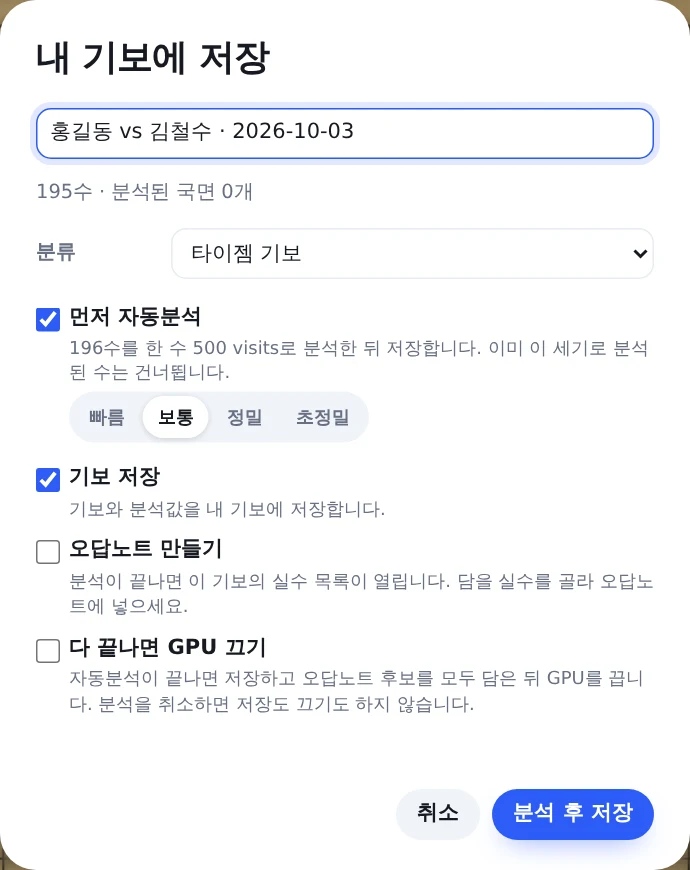
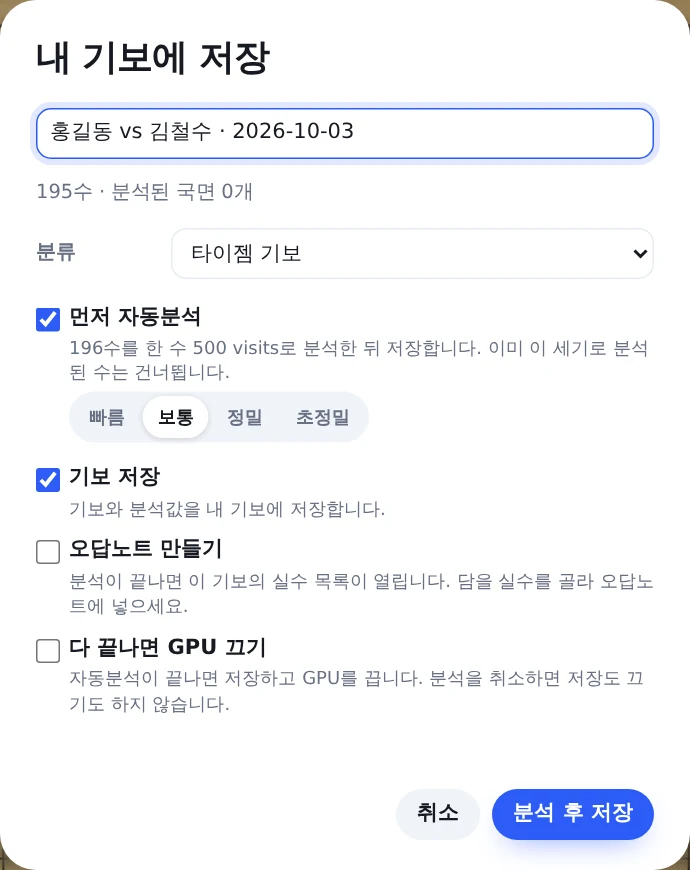
저장 창: GPU 끄기 때 오답노트는 체크했을 때만 모두 담기, 가이드
Claude-Session: https://claude.ai/code/session_01Y47eBxEyYJLCGG7gzNsDrD

Changed region(s): [[0.3652, 0.7448, 0.9435, 0.8379], [0.0913, 0.7759, 0.3348, 0.8379]]

diff --git a/analysis.html b/analysis.html
@@ -1799,19 +1799,21 @@ function saveDoChanged() {
     : todo ? `${todo}수를 한 수 ${levelVisits()} visits로 분석한 뒤 저장합니다. 이미 이 세기로 분석된 수는 건너뜁니다.`
     : "이 세기로 이미 모두 분석돼 있어 바로 저장합니다.";
   const auto = autoFirst(), wait = auto || (stop && analysisRunning());
-  // 오답노트: possible once something is analysed, or will be; turning the GPU off always takes every candidate along
-  const notesOk = saveNotesBase || auto, box = $("saveDoNotes"), forced = notesOk && stop;
-  box.disabled = !notesOk || forced; box.checked = forced || (notesOk && savePick.notes);
+  // 오답노트: possible once something is analysed, or will be. With 다 끝나면 GPU 끄기 nobody may be there to pick, so a
+  // ticked box takes every candidate; unticked, none (user request 2026-10-03: not wanting a 오답노트 is a choice too)
+  const notesOk = saveNotesBase || auto, box = $("saveDoNotes");
+  box.disabled = !notesOk; box.checked = notesOk && savePick.notes;
   box.parentElement.classList.toggle("off", !notesOk);
   $("saveDoNotesHint").textContent = !notesOk ? "분석된 수가 없어 만들 수 없습니다. 위의 '먼저 자동분석'을 켜거나 자동분석을 한 뒤 다시 누르세요."
-    : forced ? "GPU를 끌 때는 오답노트 후보를 모두 담습니다(누구의 실수·실수 기준은 오답노트에 담기 창에서 마지막으로 고른 것)."
+    : stop ? "GPU를 끄므로 고르는 창 없이 오답노트 후보를 모두 담습니다(누구의 실수·실수 기준은 오답노트에 담기 창에서 마지막으로 고른 것)."
     : wait ? "분석이 끝나면 이 기보의 실수 목록이 열립니다. 담을 실수를 골라 오답노트에 넣으세요."
     : "이 기보의 실수 목록이 열립니다. 담을 실수를 골라 오답노트에 넣으세요.";
   $("saveTitle").hidden = !kifu; $("saveAsNew").hidden = !(kifu && again);
   $("saveGo").textContent = (auto ? "분석 후 " : wait ? "끝나면 " : "") + (kifu ? (again ? "덮어쓰기" : "저장") : "만들기");
+  const then = ($("saveDoKifu").checked ? "저장하고 " : "") + ($("saveDoNotes").checked ? "오답노트 후보를 모두 담은 뒤 " : "");
   $("saveDoStopHint").textContent = wait
-    ? `${auto ? "자동분석이" : autoId ? "자동분석이" : "대국 리포트가"} 끝나면 저장하고 오답노트 후보를 모두 담은 뒤 GPU를 끕니다. 분석을 취소하면 저장도 끄기도 하지 않습니다.`
-    : "저장하고 오답노트 후보를 모두 담은 뒤 GPU를 끄고 삭제해 요금을 멈춥니다.";
+    ? `${auto || autoId ? "자동분석이" : "대국 리포트가"} 끝나면 ${then}GPU를 끕니다. 분석을 취소하면 저장도 끄기도 하지 않습니다.`
+    : `${then}GPU를 끄고 삭제해 요금을 멈춥니다.`;
   $("saveGo").disabled = !["Kifu", "Notes"].some(k => $("saveDo" + k).checked);
 }
 $("saveDo").addEventListener("change", () => {

diff --git a/guide.html b/guide.html
@@ -495,7 +495,7 @@ details.more .table-wrap { margin: 4px 0 8px; }
       <ul>
         <li><b>먼저 자동분석</b>: GPU가 연결돼 있으면 보입니다. 세기(빠름·보통·정밀·초정밀)를 고르면 그 세기로 아직 분석되지 않은 수만 분석한 뒤 저장합니다(<span class="chip">분석 후 저장</span>). 분석된 수가 하나도 없으면 처음부터 체크돼 있습니다.</li>
         <li><b>기보 저장 · 오답노트 만들기</b> 중 체크한 것만 만듭니다. 오답노트를 체크하면 이 기보의 실수 목록이 열립니다.</li>
-        <li>GPU가 켜져 있으면 <b>다 끝나면 GPU 끄기</b>도 보입니다. 이걸 켜면 오답노트는 목록을 고르지 않고 <b>후보를 모두</b> 담습니다(누구의 실수·실수 기준은 오답노트에 담기 창에서 마지막으로 고른 것). 저장하고 오답노트를 담은 뒤 GPU를 끕니다. 분석 중이면 분석이 끝나는 대로 합니다.</li>
+        <li>GPU가 켜져 있으면 <b>다 끝나면 GPU 끄기</b>도 보입니다. 이걸 켜면 끝난 뒤 고를 사람이 없을 수 있으므로, <b>오답노트 만들기</b>도 체크했다면 목록을 고르지 않고 <b>후보를 모두</b> 담습니다(누구의 실수·실수 기준은 오답노트에 담기 창에서 마지막으로 고른 것). 오답노트를 체크하지 않으면 만들지 않습니다. 저장(과 오답노트)이 끝나면 GPU를 끕니다. 분석 중이면 분석이 끝나는 대로 합니다.</li>
       </ul>
       <details class="more"><summary>자세히: 기보 추가(GPU 없이 기록), 공유, SGF, 한큐 기보 불러오기</summary><div>
         <ul>
